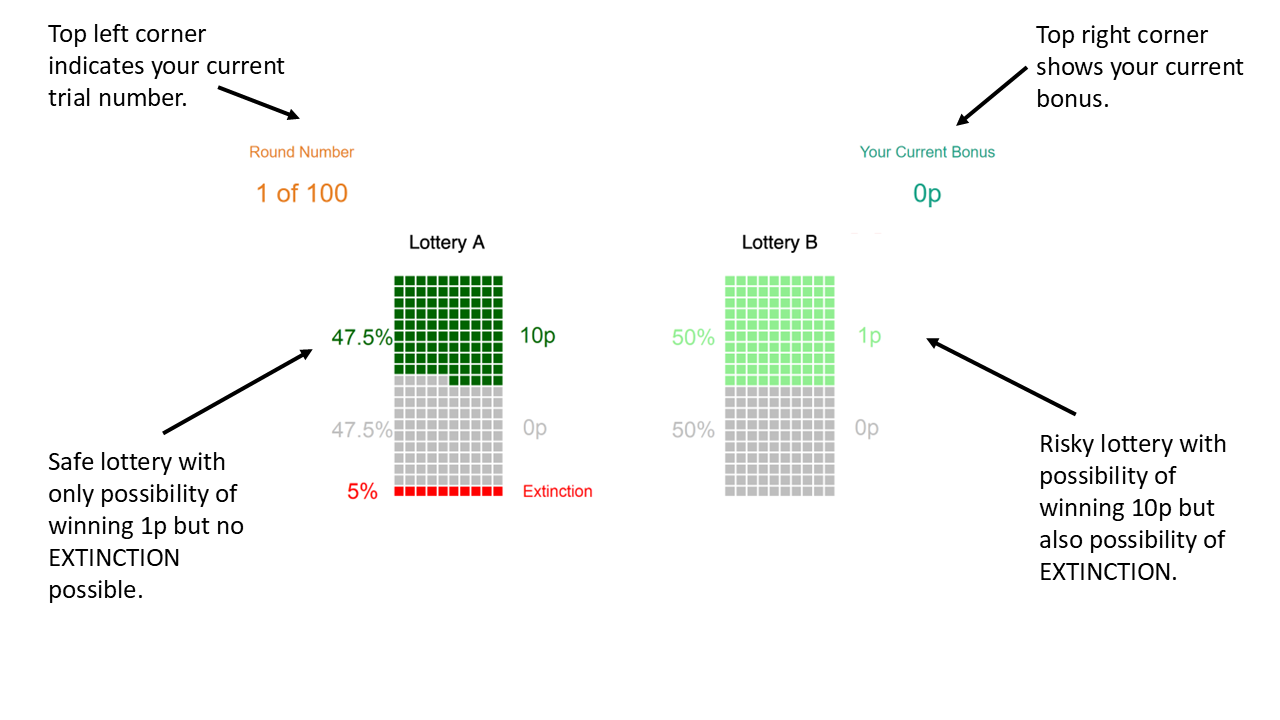
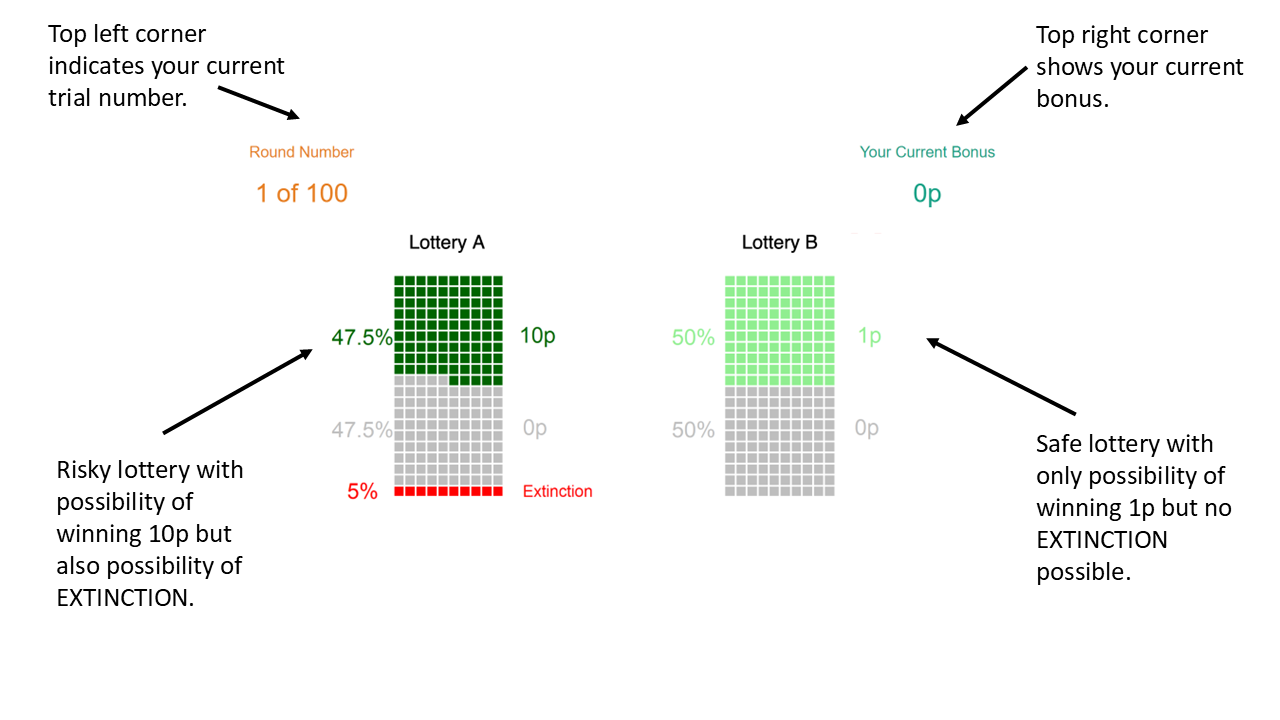
Updated 5 and 10p in all instances

Changed region(s): [[0.0312, 0.6111, 0.1875, 0.8556], [0.8125, 0.5806, 0.9688, 0.825]]

diff --git a/_templates/global/Result.html b/_templates/global/Result.html
@@ -15,14 +15,14 @@
             +0p
         </div>
 
-    {% elif player.participant.last_result == '1' %}
+    {% elif player.participant.last_result == '5' %}
         <div class="alert alert-success" role="alert">
-            +1p
+            +5p
         </div>
 
-    {% elif player.participant.last_result == '10' %}
+    {% elif player.participant.last_result == '50' %}
         <div class="alert alert-success" role="alert">
-            +10p
+            +50p
         </div>
         
     {% endif %}
@@ -70,11 +70,11 @@
                 {% if player.participant.last_result == '0' %}
                 <p>Your result this round: +0p</p>
             
-        {% elif player.participant.last_result == '1' %}
-                <p>Your result this round: +1p</p>
+        {% elif player.participant.last_result == '5' %}
+                <p>Your result this round: +5p</p>
             
-        {% elif player.participant.last_result == '10' %}
-                <p>Your result this round: +10p</p>
+        {% elif player.participant.last_result == '50' %}
+                <p>Your result this round: +50p</p>
             
         {% endif %}
 

diff --git a/instructions/Instructions1.html b/instructions/Instructions1.html
@@ -21,14 +21,23 @@
         <p>Safe Lottery:</p>
 
         <ul>
-            <li>50% chance of winning 1p</li>
-            <li>50% chance of winning 0p</li>
+            {% if player.participant.condition == "indy" %}
+                <li>50% chance of winning 1p</li>
+            {% else %}
+                <li>50% chance of winning 5p</li>
+            {% endif %}
+                <li>50% chance of winning 0p</li>
         </ul>
        
         <p>Risky Lottery:</p>
         
         <ul>
-            <li>47.5% chance of winning 10p</li>
+            
+            {% if player.participant.condition == "indy" %}
+                <li>47.5% chance of winning 10p</li>
+            {% else %}
+                <li>47.5% chance of winning 50p</li>
+            {% endif %}
             <li>47.5% chance of winning 0p</li>
             <li>5% chance of <strong>extinction</strong></li>
         </ul>

diff --git a/instructions/GroupInstructions2.html b/instructions/GroupInstructions2.html
@@ -14,7 +14,7 @@
         
       <p>Each round, each player makes a choice between the safe and the risky lottery.</p>
 
-      <p>If a player wins a bonus on a lottery then that counts towards their own individual bonus.  For example if you play risky and you win 10p you will receive a 10p higher bonus payment at the end of the experiment (if you don't go extinct).</p>
+      <p>If a player wins a bonus on a lottery then that counts towards their own individual bonus.  For example if you play risky and you win 50p you will receive a 50p higher bonus payment at the end of the experiment (if you don't go extinct).</p>
 
         <p>
         <strong>IMPORTANT:</strong> If <strong>any player</strong> draws the <strong>extinction</strong> outcome from the risky lottery, the <strong>entire team loses their bonus payments</strong> for the whole experiment, and will not be able to earn any bonus.

diff --git a/instructions/VoterInstructions2.html b/instructions/VoterInstructions2.html
@@ -25,7 +25,7 @@
 
     <h2>Outcomes</h2>
 
-      <p>If a player wins a bonus on a lottery then that counts towards their own individual bonus. For example if you are randomly selected to play risky and you win 10p you will receive a 10p higher bonus payment at the end of the experiment.</p>
+      <p>If a player wins a bonus on a lottery then that counts towards their own individual bonus. For example if you are randomly selected to play risky and you win 50p you will receive a 50p higher bonus payment at the end of the experiment.</p>
 
     <p>Once the voting is done, each player plays the lottery they are given on their own, and if they earn a bonus then that counts towards their own individual bonus.</p>
 

diff --git a/_templates/global/Decision.html b/_templates/global/Decision.html
@@ -67,6 +67,8 @@
             <div class="col-md-8 offset-md-2">
             
                 <h4>Optimal Group Strategy Update</h4>
+                <h5>Note: The optimal strategy was updated based on the group bonus so far.</h5>
+
                 <div class="col-md-4 optimal-info">
             
                     <p class="margin-h2"><h2>{{ optimal_n_risky }}</h2> total risky lotteries for the group over the rest of the game.</p>
@@ -77,7 +79,8 @@
                 
                 </div>
                 </div>
-                <h4>Note: The optimal strategy updates based on the group bonus so far.</h4>
+                </div>
+                
                 </div>
             
         {% endif %}

diff --git a/game_group/OptimalChoices.html b/game_group/OptimalChoices.html
@@ -31,7 +31,7 @@
 
                 <div>
       
-                  <h4>Predicted Bonus (on average)</h4>
+                  <h4>Predicted Group Bonus (on average)</h4>
                   <script
                   src="https://cdnjs.cloudflare.com/ajax/libs/Chart.js/2.9.4/Chart.js">
                   </script>

diff --git a/game_group/__init__.py b/game_group/__init__.py
@@ -189,7 +189,7 @@ class GroupWaitPage(WaitPage):
 		print("Game_group wait page 1: " , player.participant.vars)
 		return player.round_number == 1 and player.participant.condition in ['group', 'voting']
 
-def expected_value_strategy(n_risky, group_balance = 0, n_rounds=100, p_survive=0.95, e_risky=5, e_safe = 0.5):
+def expected_value_strategy(n_risky, group_balance = 0, n_rounds=100, p_survive=0.95, e_risky=25, e_safe = 2.5):
 
 	return p_survive**n_risky * (group_balance + e_risky * n_risky + e_safe * (n_rounds - n_risky))
 
@@ -383,15 +383,15 @@ def get_results(group):
 			if random_roll < 0.5:
 				player_result = "0"
 			else:
-				player_result = "1"
-				group_bonus += 1
+				player_result = "5"
+				group_bonus += 5
 		
 		if player_choice == 'risky':
 			if random_roll < 0.475:
 				player_result = "0"
 			elif random_roll < 0.95:
-				player_result = "10"
-				group_bonus += 10
+				player_result = "50"
+				group_bonus += 50
 			else:
 				player_result = "extinction"
 				group_extinct = True
@@ -401,10 +401,10 @@ def get_results(group):
 	if not group_extinct:
 		for i, player in enumerate(players):
 			player_result = player_results[i]
-			if player_result == "1":
-				player.participant.game_current_bonus += 1
-			if player_result == "10":
-				player.participant.game_current_bonus += 10
+			if player_result == "5":
+				player.participant.game_current_bonus += 5
+			if player_result == "50":
+				player.participant.game_current_bonus += 50
 
 			player.participant.last_result = player_results[i]
 
